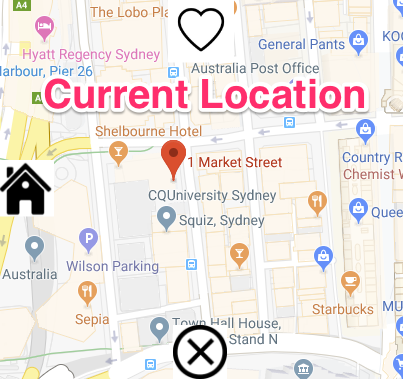
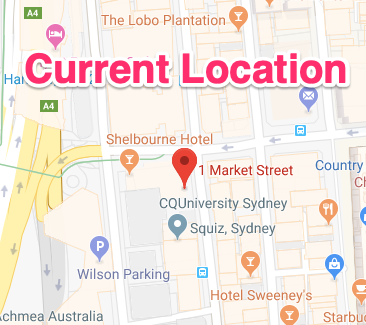
Cleaned up old code and fixed map page

diff --git a/client/spec/pages/mapsPage.spec.js b/client/spec/pages/mapsPage.spec.js
@@ -3,16 +3,31 @@ const StorageHub = require('watch-framework').StorageHub;
 
 describe('MapsPage', () => {
   let watchFace;
+  let page;
   beforeEach(() => {
     document.body.innerHTML = `<div id='watch-face' style='height: 100px; width: 100px;'></div>`;
     watchFace = document.getElementById('watch-face');
+    page = new MapsPage();
   });
 
   describe('#render', ()=> {
     it('should render my current location', () => {
-      const page = new MapsPage();
-      expect(page.render()).toContain("<img src=\"../images/current-location.png\">");
-    })
+
+      expect(page.render()).toContain("<img src=\"../images/current-location.png\"/>");
+
+    });
+
+    it('should render a take-me-home image', () => {
+      expect(page.render()).toContain("<img src=\"../images/take-me-home.png\"/>");
+    });
+
+    it('should render a cross image', () => {
+      expect(page.render()).toContain("<img src=\"../images/cross.png\"/>");
+    });
+
+    it('should render a heart image', () => {
+      expect(page.render()).toContain("<img src=\"../images/heart.png\"/>");
+    });
 
   });
 

diff --git a/client/spec/pages/medicinePage.spec.js b/client/spec/pages/medicinePage.spec.js
@@ -1,6 +1,6 @@
 const MedicinePage = require('../../src/js/pages/medicinePage');
 
-describe('The Morning Page', () => {
+describe('The Medicine Page', () => {
   let watchFace;
   let page;
 
@@ -12,15 +12,10 @@ describe('The Morning Page', () => {
   });
 
   describe('#render', () => {
-    it('should render a tick image', () => {
-      expect(page.render()).toContain("<img src=\"../images/tick.png\"/>");
-    });
-
+  
     it('should contain a medicine reminder', () => {
       expect(page.render()).toContain('TAKE YOUR MEDICINE');
     });
-
-    
 
     it('should render medicine image', () => {
       expect(page.render()).toContain("<img class=\"med-image\" src=\"../images/happy-med.jpg\"/>");
@@ -30,8 +25,6 @@ describe('The Morning Page', () => {
     it('should render a cross image', () => {
       expect(page.render()).toContain("<img src=\"../images/cross.png\"/>");
     })
-
-
 
   }); 
 

diff --git a/client/spec/pages/direction.spec.js b/client/spec/pages/direction.spec.js
@@ -3,15 +3,22 @@ const StorageHub = require('watch-framework').StorageHub;
 
 describe('DirectionPage', () => {
   let watchFace;
+  let page;
   beforeEach(() => {
     document.body.innerHTML = `<div id='watch-face' style='height: 100px; width: 100px;'></div>`;
     watchFace = document.getElementById('watch-face');
+    page = new DirectionPage();
   });
+
 
   describe('#render', ()=> {
     it('should render my way home', () => {
-      const page = new DirectionPage();
-      expect(page.render()).toContain("<img src=\"../images/take-me-home.png\">");
+  
+      expect(page.render()).toContain("<img src=\"../images/direction-home.png\">");
     })
+
+    it('should render a cross image', () => {
+      expect(page.render()).toContain("<img src=\"../images/cross.png\"/>");
+    });
   });
 });

diff --git a/client/src/styles/pages/med.scss b/client/src/styles/pages/med.scss
@@ -1,17 +1,20 @@
 .med-text {
-    padding-top: 55px;
+    padding-top: 38px;
+    padding-bottom: 5px;
     text-align: center;
     padding-right: 22px;
 }
 
 .med-text-success {
     padding-top: 35px;
+    padding-bottom: 5px;
     text-align: center;
     padding-right: 22px;
 }
 
 .med-text-fail {
     padding-top: 35px;
+    padding-bottom: 3px;
     text-align: center;
     padding-right: 22px;
 }
@@ -23,7 +26,7 @@
 }
 
 .fail-med-image {
-    width: 46%;
+   width: 46%;
     padding-left: 53px;
     padding-top: 19px;
 }

diff --git a/client/src/js/pages/successMedPage.js b/client/src/js/pages/successMedPage.js
@@ -5,14 +5,11 @@ class SuccessMedPage extends BasePage {
   template = require('../../templates/successMedPage.hbs');
 
   pageWillLoad() {
-
   }
 
- 
   bottomButtonEvent() {
     this.navigate('/');
   }
-
 }
 
 module.exports = SuccessMedPage;

diff --git a/client/spec/pages/successMedPage.spec.js b/client/spec/pages/successMedPage.spec.js
@@ -13,7 +13,6 @@ describe('The Success Medicine Taking Page', () => {
 
   describe('#render', () => {
    
-
     it('should contain a medicine reminder', () => {
       expect(page.render()).toContain('GOOD JOB!');
     });

diff --git a/client/src/main.scss b/client/src/main.scss
@@ -6,3 +6,7 @@
 @import './styles/pages/games.scss';
 @import './styles/pages/med.scss';
 @import './styles/pages/calendar.scss';
+@import './styles/pages/place1.scss';
+@import './styles/pages/map.scss';
+
+

diff --git a/client/src/styles/pages/map.scss b/client/src/styles/pages/map.scss
@@ -1,0 +1,8 @@
+span {
+    img {
+        border-radius: 10%;
+        margin-left: -7px;
+        margin-top: 10px;
+        height: 95%;
+    }
+}

diff --git a/client/src/styles/pages/place1.scss b/client/src/styles/pages/place1.scss
@@ -1,0 +1,7 @@
+span {
+    img {
+        border-radius: 10%;
+        margin-left: -7px;
+        margin-top: 1px !important;
+    }
+}
